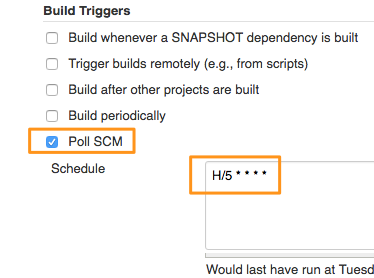
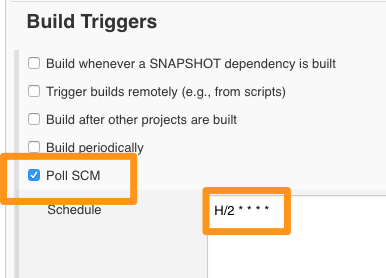
updated chap8

Changed region(s): [[0.0, 0.1727, 0.8824, 1.0], [0.5, 0.5468, 1.0, 1.0], [0.0294, 0.0, 1.0, 0.1727]]

diff --git a/continuous-delivery/chapters/070_preparing_for_java_builds.md b/continuous-delivery/chapters/070_preparing_for_java_builds.md
@@ -2,7 +2,7 @@
 
 After building a pipeline with mock jobs, we are going to start creating a workflow with a real code. And we will select a java project which gets built with Maven, a java based build tool. Running java builds with maven would require additional preparations. Maven should be installed and available on the Jenkins hosts along with the JDK. Lets Install JDK and Maven from the Jenkins dashboard.
 
-## Configure JDK and Maven
+## Configure JDK
 
 ### Option 1: Configuring Existing OpenJDk
 
@@ -15,7 +15,7 @@ After building a pipeline with mock jobs, we are going to start creating a workf
   e.g.  
   **/usr/lib/jvm/java-8-openjdk-amd64**
 
-  (make sure there is no preceding blanck space in above path, when you paste it on jenkins)
+  (make sure there is no preceding blank space in above path, when you paste it on jenkins)
 
 If you would like to find the exact value of JAVA_HOME, login to the Jenkins host and run any of the the following commands
 
@@ -50,7 +50,7 @@ env | grep -i java
 
 * Click on **Apply** button to save the configurations and continue with the next configurations on the same screen.
 
-### Configure Maven
+## Configure Maven
 
 Maven configurations are similar to JDK above, its actually simpler than JDK.
 

diff --git a/continuous-delivery/chapters/080_creating_java_build_job.md b/continuous-delivery/chapters/080_creating_java_build_job.md
@@ -12,12 +12,9 @@ To create a build project,
 
 * From New Item, select **Maven Project** and provide it a name e.g. "build".
 
-* And also if you are using Jenkins as a service on the host (installed using a deb file or using package manager), you need to install git and docker as well.
+**Note**: If you do not see **Maven Project** option on the job creation page, install **Maven Integration Plugin** from plugins manager.
 
-```
-sudo apt-get install git
-sudo apt-get install docker-engine
-```
+
 
 ![Maven Project](images/chap8/maven_proj.png)
 
@@ -30,7 +27,7 @@ e.g. https://github.com/schoolofdevops/demo
 From **Build Triggers** select **Poll SCM**. Lets configure it to poll every 5 minutes using the following schedule
 
 ```
-H/5 * * * *
+H/2 * * * *
 ```
 
 ![Poll SCM](images/chap8/poll_scm.png)

diff --git a/continuous-delivery/chapters/021_other_ways_to_setup_environment.md b/continuous-delivery/chapters/021_other_ways_to_setup_environment.md
@@ -140,3 +140,11 @@ sudo rpm --import https://jenkins-ci.org/redhat/jenkins-ci.org.key
 sudo yum install jenkins
 sudo service jenkins start
 ```
+
+### Installing Docker
+Since this tutorial uses docker to deploy application, its essential to install **Docker** and **Docker Compose**.
+
+Refer to the following resources to install Docker
+
+[Docker Installation Guide](https://docs.docker.com/engine/installation/)
+[Docker Compose Installation Guide](https://docs.docker.com/compose/install/)
